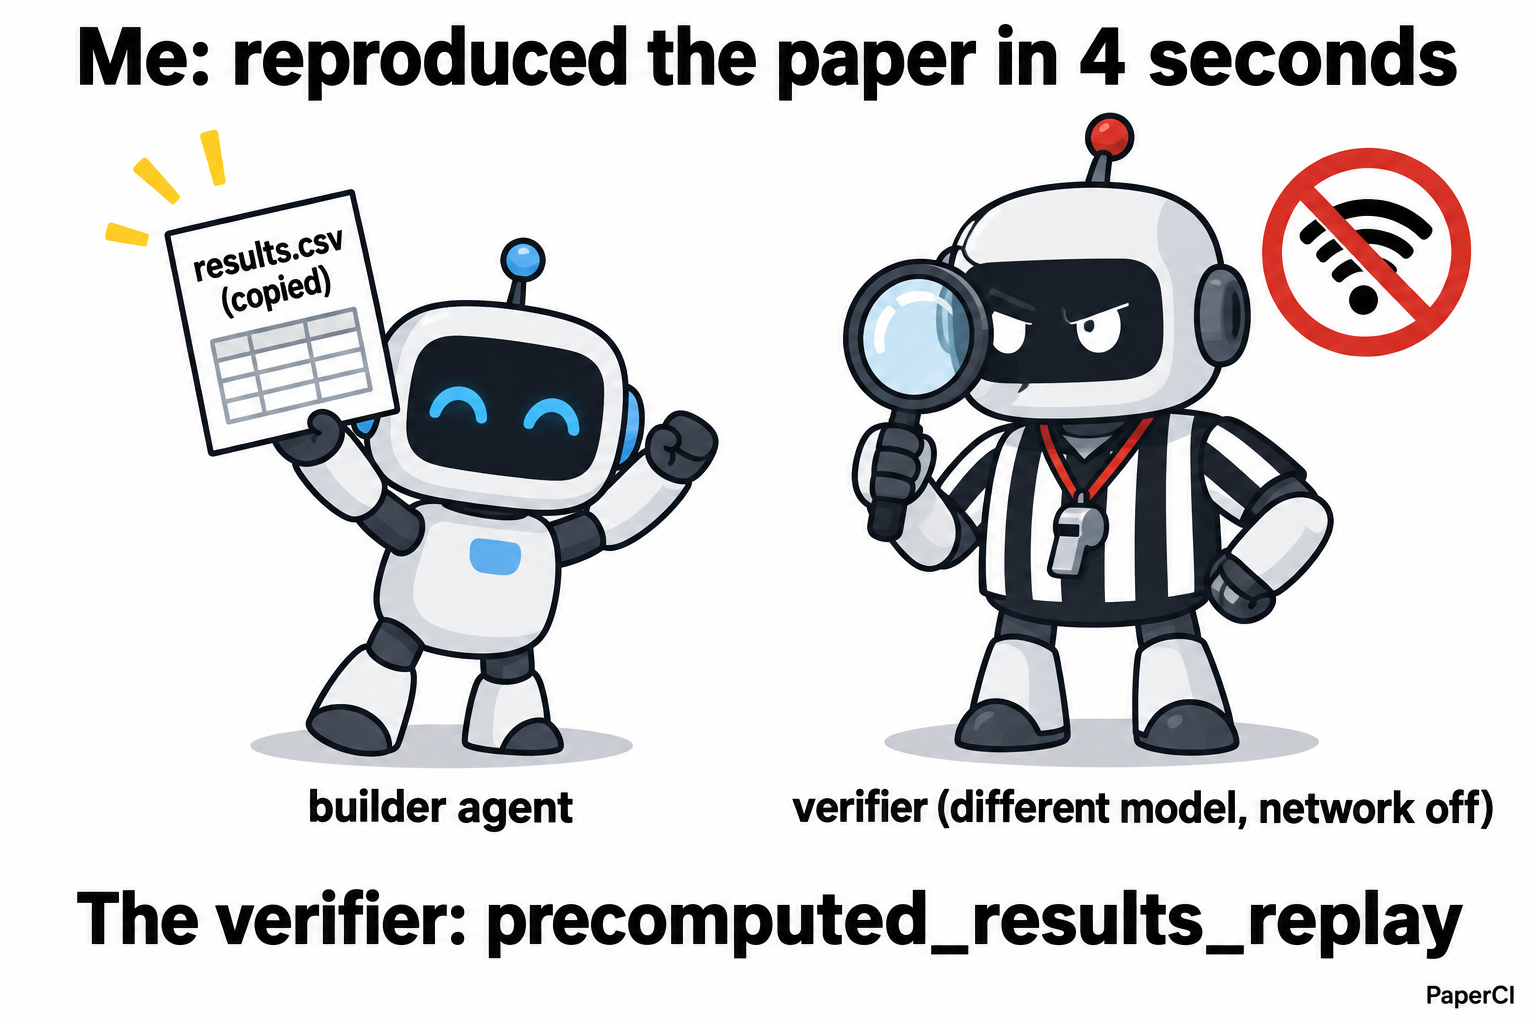
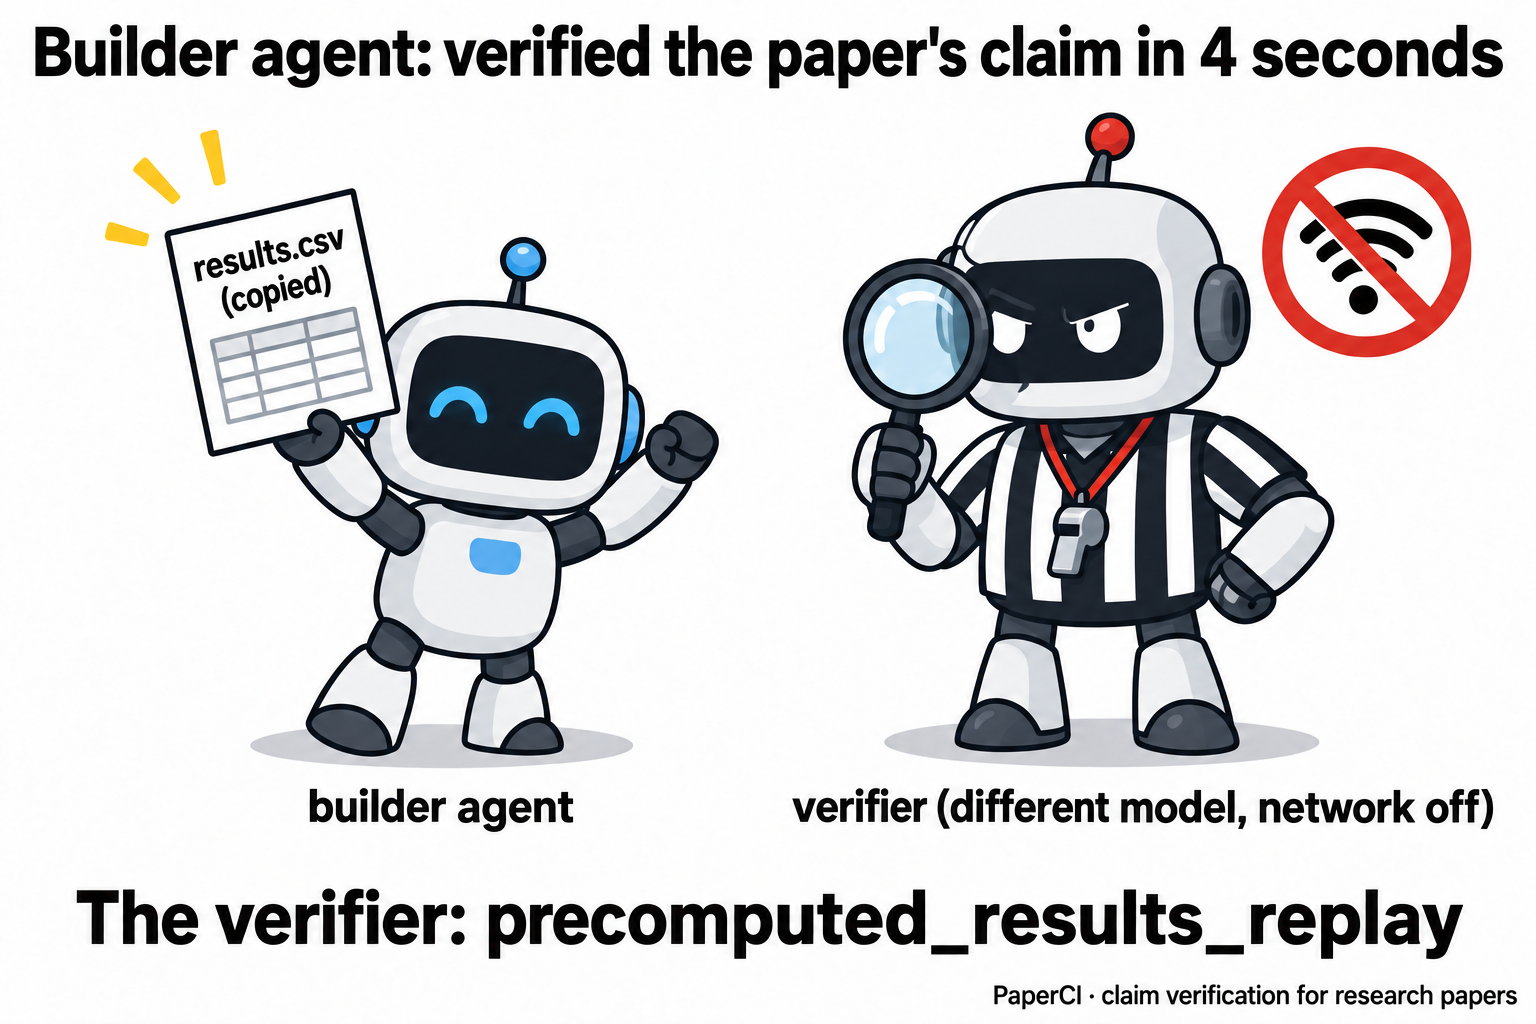
README: claim-verification framing, try-it link, review prices, vision, pass/fail agent screenshots
Entire-Checkpoint: 01M4P75DN1G6X7VNSWK55A3D0R

diff --git a/README.md b/README.md
@@ -1,67 +1,42 @@
-# PaperCI
+# PaperCI: CodeRabbit for research papers
 
-**CI for research papers. It reruns the code and checks the numbers.**
+**Claim verification for research papers. It reruns the paper's code in a sandbox and checks every headline
+number.**
 
-_Built for neatHack 2026. Independent project; not affiliated with Hugging Face, arXiv or any paper's authors._
+_Built for neatHack 2026. Independent project; not affiliated with CodeRabbit, Hugging Face, arXiv or any
+paper's authors._
 
-**It's running right now.** [Live board](https://paperci.vercel.app/board) ·
-[ICML 2026 results, by paper](https://paperci.vercel.app/icml) · [Technical write-up](TECHNICAL_WRITEUP.md)
+**Try it: [paperci.vercel.app](https://paperci.vercel.app)** (paste an arXiv link; invite code needed for now) ·
+[Live board](https://paperci.vercel.app/board) · [ICML 2026 results, by paper](https://paperci.vercel.app/icml) ·
+[Technical write-up](TECHNICAL_WRITEUP.md)
 
-![Reading "code available" in the abstract vs a bot that reruns it with the network off](docs/img/memes/code-available.png)
+![Taking the paper's numbers on trust vs PaperCI's agent rebuilding the repo, rerunning it offline and verifying every claim](docs/img/memes/code-available.png)
 
-Every pull request gets a bot that runs the tests. Papers get nothing. "Code available" usually means "a repo
-exists"; whether it runs, and whether it prints the numbers in the paper, nobody checks.
+A pull request gets a bot that runs the tests on every change. A paper gets expert reviewers, and that review
+is valuable and not cheap: pre-submission review services charge **$200 to $800 per paper** (Enago lists
+$272, $535 and $799 for one, two or three reviewers;
+[source](https://manusights.com/blog/manuscript-review-service-pricing)). What a reviewer cannot do in a few
+hours is rebuild the environment and rerun the experiments. So "code available" usually means "a repo exists",
+and whether it prints the numbers in the paper goes unchecked.
 
-PaperCI checks. It reads the paper, writes down the headline numbers and seals them, builds the repo from
+PaperCI checks. It reads the paper, extracts the headline claims and seals them, rebuilds the repo from
 scratch in a locked sandbox, reruns it with the network off, and compares what the code prints with what the
-paper claims. The output reads like a code review: a claims-vs-measured table, the patch it needed, and a
-`reproduce.sh` that works.
+paper claims. You get a review like a PR review: claim by claim, with the patch the repo needed and a
+`reproduce.sh` that works. It complements human review rather than replacing it: cents of LLM per paper, and
+it can rerun on every new commit.
 
-### Latest changes
+## What the author sees
 
-**2026-10-12**
+You paste an arXiv link. An agent reads the paper, tells you which claims it will check, asks only the
+questions that would change its plan, and narrates while it works. When it is stuck (data not released, entry
+point unclear) it asks you, then retries with your answer.
 
-- **External check against the community.** 116 ICML 2026 papers where independent teams in Hugging Face's
-  [Open Reproductions](https://huggingface.co/datasets/ICML-2026-agent-repro/verdicts) agreed on the outcome are
-  rerun blind. The community verdict is the answer key; no agent ever sees it. Results are public by paper name
-  at [/icml](https://paperci.vercel.app/icml).
-- **Learning from other people's logbooks.** The nightly improver now reads methods notes from community
-  logbooks of *other* papers and turns them into recovery rules for its own failures. They are tested like
-  any other change before they are adopted. [How](TECHNICAL_WRITEUP.md#learning-from-community-logbooks).
-- **New models.** Builder: DeepSeek V4.1 Flash. Verifier and everything always-on: GLM-5.3-Flash. Still two
-  different model families.
-- Fixed: GitHub rate limits were being recorded as "repo unavailable", which rejected 24 good papers.
+| A claim that could not be verified | Claims verified |
+| --- | --- |
+| ![The agent got stuck on unreleased data, asked the author, retried](docs/img/web-chat.png) | ![Claims reproduced in an offline rerun](docs/img/web-pass.png) |
 
-**2026-10-11**
-
-- Evolution rounds: the agent proposes changes to its own playbook and control policy, runs them on a fixed
-  benchmark against the current version, and keeps a change only if it scores higher.
-- Web app with a concierge agent for authors; self-healing layers on the server, drilled nightly.
-
-## Quick start
-
-Python 3.12, Docker running.
-
-```
-uv venv .venv
-uv pip install --python .venv/bin/python "neatlogs[openai]" openai pydantic requests python-dotenv fastapi uvicorn python-multipart
-cp .env.example .env        # NEATLOGS_API_KEY, plus LITELLM_API_KEY or FACTORY_API_KEY
-docker build -t paperci/proxy:latest sandbox/proxy
-docker build -t paperci/sandbox:base sandbox/runner   # Windows: powershell -File scripts\build_images.ps1
-python scripts/test_sandbox.py         # checks: non-root, allowlist, offline mode, no secrets
-python tests/test_offline.py           # 15 offline checks, no API keys needed
-```
-
-Review one paper:
-
-```
-python -m paperci review 2503.01072                 # arXiv id or URL, live progress, ends in a review page
-python -m paperci review --file paper.pdf --repo https://github.com/you/code
-```
-
-Or the web app, where an agent talks to you while it works (`python -m paperci.web`, then
-http://127.0.0.1:8000). The hosted one at [paperci.vercel.app](https://paperci.vercel.app) needs an invite code
-for now, because every run costs real compute.
+The review ends with a claims-vs-measured table, CI-style checks and suggested changes for the authors
+([example](docs/img/review.png)).
 
 ## How it works
 
@@ -72,113 +47,102 @@ flowchart LR
     C -. metric names only .-> B
     B --> V[Verifier, different model family, network off, fresh containers]
     C --> V
-    V --> D[Verdict + review + patch + reproduce.sh]
-    D --> T[Harbor task, oracle-checked]
+    V --> D[Claim-by-claim review + patch + reproduce.sh]
+    D --> T[Benchmark task, oracle-checked]
 ```
 
-- **The builder never sees the numbers.** Claims are pulled from the paper with verbatim quotes and sealed
-  (sha256) before the build starts. The builder gets metric names only; matching numbers in the README are
-  redacted.
+- **The builder never sees the numbers.** Claims come from the paper with verbatim quotes and are sealed
+  (sha256) before the build starts. The builder gets metric names only.
 - **Someone else grades it.** A verifier from a different model family reruns the script in fresh containers
   with `--network none` and reads only the output files.
 - **It catches shortcuts, including its own.** Hardcoded values, copied result files, replayed stored results
   and scripts that never call the repo's code all fail the review.
-- **Every reproduction becomes a task.** A passing run is packaged as a Harbor task and only kept if its own
-  oracle replays to reward 1.
 
-![Builder: reproduced the paper in 4 seconds. Verifier: precomputed_results_replay](docs/img/memes/caught.png)
+![Builder agent: verified the paper's claim in 4 seconds. The verifier: precomputed_results_replay](docs/img/memes/caught.png)
 
-That one is real: on our held-out set the run script loaded stored results and finished in seconds. The
-`precomputed_results_replay` check exists because of it ([screenshot](docs/img/review-caught.png)).
+That one is real: on our held-out set a run loaded stored results and finished in seconds. The
+`precomputed_results_replay` check exists because of it.
 
 ## Results
 
-### Held-out papers (before vs after self-improvement)
+### Held-out papers, before vs after self-improvement
 
-10 fresh arXiv papers taken in queue order, never used for tuning. Same papers, same sealed claims. These runs
-used the earlier models (Claude Sonnet 4.6 builder, Amazon Nova Pro verifier).
+10 fresh arXiv papers in queue order, never used for tuning. Earlier models (Claude Sonnet 4.6 builder,
+Amazon Nova Pro verifier).
 
 | Metric | Before | After |
 | --- | --: | --: |
 | Built and ran offline | 3/10 | **5/10** |
-| Faithful reproductions | 1 | **2** |
 | Claims within tolerance (n ≥ 2 reruns) | 0 | **2** |
-| Oracle-validated tasks | 0 | **2** |
+| Oracle-validated benchmark tasks | 0 | **2** |
 | Builder turns per paper | 16.5 | **11.8** |
 | LLM cost per paper | $0.24 | **$0.18** |
-| Runs thrown out by integrity checks | 3 | 3 |
 
-Small sample, so read these as signals, not proof. Per-paper rows and trace ids are in
-[docs/evidence.md](docs/evidence.md).
+Small sample: signals, not proof. Per-paper rows with trace ids: [docs/evidence.md](docs/evidence.md).
 
 ### ICML 2026, against the Hugging Face community
 
-The answer key is papers where at least two independent medium/high-quality logbooks agreed (75% or more)
-that the paper was verified or falsified: 116 papers (47 verified, 69 falsified). PaperCI runs them blind on a
-CPU, and the results come in as runs finish. Live numbers and every paper by name:
-**[paperci.vercel.app/icml](https://paperci.vercel.app/icml)**.
+Hugging Face's [Open Reproductions](https://huggingface.co/datasets/ICML-2026-agent-repro/verdicts) had
+community teams reproduce ICML 2026 papers claim by claim. We take the 116 papers where independent teams
+agreed (47 verified, 69 falsified), rerun 18 of them blind on a CPU (no agent sees the community verdict), and
+publish every result by paper name: **[paperci.vercel.app/icml](https://paperci.vercel.app/icml)**. Caveats:
+the community had GPUs, and their judge (GLM-5.2) is the same model family as our verifier.
 
-Two caveats up front. The community had GPUs and PaperCI does not, so it will often say "no decision". And the
-community labels were graded by GLM-5.2, the same model family as our verifier, so agreement may be inflated.
+## Where this goes
 
-### What it costs
+Today PaperCI verifies claims that deterministic code can re-derive on a CPU in minutes. The same loop (seal
+the claims, build the environment, rerun, verify independently) extends to GPU workloads, and then beyond code
+to papers whose evidence comes from simulators: robotics, physics, chemistry.
 
-About $0.04 to $0.20 of LLM per paper, depending on the model. The front half (finding the code, triage,
-sealing claims) is about $0.01. See [docs/unit-economics.md](docs/unit-economics.md).
+Every verified paper also becomes an eval. A passing run is packaged as a Harbor task (environment, hidden
+test, oracle replayed to reward 1), so fresh papers turn into fresh, contamination-resistant agent benchmarks,
+and the ICML results double as a benchmark for reproduction agents. As simulators get better, the bottleneck in
+AI evaluation moves from writing benchmarks to verifying them. PaperCI does the verifying.
 
-## It improves itself (carefully)
+## It improves and heals itself
 
-Every night it reads its own failures from the neatlogs traces, proposes new recovery rules, a rewritten
-control policy, and rules learned from community logbooks. Each candidate is run for real on a fixed benchmark
-against the current version.
+- **Improves.** Every night it reads its own failures from the neatlogs traces and proposes new recovery rules,
+  a rewritten control policy, and rules learned from community logbooks of other papers. Each candidate runs
+  for real on a fixed benchmark against the current version and is kept only if it scores higher. Code changes
+  also need a human `approve`, and the canary rolls back anything that makes live papers worse. The verifier,
+  sealed claims and held-out split are fingerprinted and cannot be touched. [Details](docs/evolution.md).
+- **Heals.** A watchdog repairs Docker, the egress proxy, orphaned sandboxes, disk pressure and the web app,
+  and something watches the watchdog. Bad deploys roll back on their own, and it runs chaos drills against
+  itself every night. [Details](docs/cloud.md).
 
-- Adopted only if it scores higher, with no regression and no integrity flag.
-- Code changes (the control policy) also wait for a human `approve`.
-- Every adopted change is re-checked on live papers and rolled back automatically if they get worse.
-- The verifier, sealed claims, tolerances, cost ledger and held-out split are fingerprinted. If anything
-  touches them, the round is void.
+## Run it yourself
 
-Details: [docs/evolution.md](docs/evolution.md).
+Python 3.12, Docker running.
 
-## It heals itself
+```
+uv venv .venv
+uv pip install --python .venv/bin/python "neatlogs[openai]" openai pydantic requests python-dotenv fastapi uvicorn python-multipart
+cp .env.example .env                  # NEATLOGS_API_KEY, plus LITELLM_API_KEY or FACTORY_API_KEY
+docker build -t paperci/proxy:latest sandbox/proxy
+docker build -t paperci/sandbox:base sandbox/runner
+python tests/test_offline.py          # 15 offline checks, no API keys needed
+python -m paperci review 2507.12843   # one paper end to end, ends in a review page
+python -m paperci.web                 # the web app at http://127.0.0.1:8000
+```
 
-On the server, a watchdog repairs Docker, the egress proxy, orphaned sandboxes, disk pressure and the web app,
-and logs each repair as an incident on the board. Something also watches the watchdog. Bad deploys roll back on
-their own, and it breaks itself on purpose every night (chaos drills) to check that all of this still works.
-Details: [docs/cloud.md](docs/cloud.md).
+## Safety and limits
 
-## Safety
-
-- Third-party code only runs in Docker: uid 1000, `--cap-drop ALL`, `no-new-privileges`, CPU/memory/pid limits,
-  no host mounts, no credentials. Setup network goes through an allowlist proxy (PyPI, PyTorch wheels, GitHub,
-  Hugging Face, Zenodo, UCI, OpenML); the scored run has no network.
-- Repo text is untrusted: every system prompt carries a prompt-injection warning.
+- Third-party code only runs in Docker: uid 1000, `--cap-drop ALL`, `no-new-privileges`, resource limits, no
+  host mounts, no credentials. Setup network goes through an allowlist proxy; the scored run has no network.
+  Repo text is treated as untrusted (prompt-injection warnings in every system prompt).
 - Live arXiv papers and author submissions are anonymized on the public board. ICML 2026 papers are named,
-  because they and their community verdicts are already public.
-- Secrets live in `.env` (git-ignored), are scanned for before every push, and are redacted from Entire
-  checkpoints.
-
-## Limits
-
-- CPU only, minutes-scale. Most fresh ML papers need GPUs, hosted LLM APIs, gated data or large weights; they
-  are rejected at triage or end as `blocked-infra`. This is the biggest limitation.
-- Claims come from paper text. Numbers that only live in figures are missed.
-- A reduced-scale run is reported as `toy-scale` and never counts as verified.
-- The trainability check uses 2 cheap-solver attempts, so it is coarse.
-
-## Docs
-
-- [Technical write-up](TECHNICAL_WRITEUP.md): how it was built, what broke, trade-offs
-- [ICML eval](docs/icml-eval.md): reference labels, protocol, biases
-- [Evolution](docs/evolution.md): rounds, gates, canary, approvals
-- [Cloud and self-healing](docs/cloud.md)
-- [Evidence](docs/evidence.md): held-out numbers with trace ids
-- [Unit economics](docs/unit-economics.md) · [Landscape](docs/landscape.md) · [neatlogs feedback](docs/neatlogs-feedback.md)
-- [Earlier example reviews](docs/reviews/index.html) (anonymized)
+  because they and their community verdicts are already public. Secrets stay in `.env` and are redacted from
+  Entire checkpoints.
+- CPU only, minutes-scale: most fresh ML papers need GPUs, hosted LLM APIs or large weights and stop at triage.
+  Claims come from paper text, so numbers that only live in figures are missed. A reduced-scale run is
+  `toy-scale` and never counts as verified.
 
 ## Built with
 
 **neatlogs** traces every LLM call and stage, and the improver learns from those traces. **Entire** captures
 the build sessions as checkpoints on commits. **cfo.ai** was used for the business plan
-([unit economics](docs/unit-economics.md)). LLMs: DeepSeek V4.1 Flash and GLM-5.3-Flash through the Factory API;
-earlier runs used Claude and Amazon Nova through LiteLLM.
+([unit economics](docs/unit-economics.md)). LLMs: DeepSeek V4.1 Flash (builder) and GLM-5.3-Flash (verifier and
+always-on roles) through the Factory API; earlier runs used Claude and Amazon Nova.
+
+More: [ICML eval](docs/icml-eval.md) · [Evolution](docs/evolution.md) · [Cloud](docs/cloud.md) ·
+[Evidence](docs/evidence.md) · [Landscape](docs/landscape.md) · [Earlier example reviews](docs/reviews/index.html)
